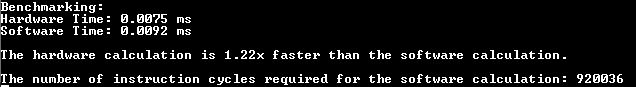
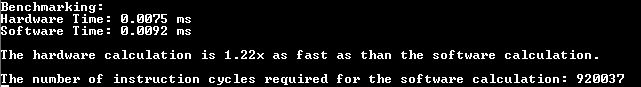
Made benchmarking print more clear, reflected change in images

diff --git a/dspic33ck-curiosity-crc-advanced.X/print.c b/dspic33ck-curiosity-crc-advanced.X/print.c
@@ -335,7 +335,7 @@ void printBenchmarkingResults(uint16_t hardwareCRCTimerCount, uint16_t softwareC
     (void) printf("\r\nBenchmarking:\r\n");
     (void) printf("Hardware Time: %.4f ms\n", hardwareCRCCalculationTime);
     (void) printf("Software Time: %.4f ms\n", softwareCRCCalculationTime);
-    (void) printf("\r\nThe hardware calculation is %.2fx faster than the software calculation.\r\n", hardwareToSoftwareTimeRatio);
+    (void) printf("\r\nThe hardware calculation is %.2fx as fast as than the software calculation.\r\n", hardwareToSoftwareTimeRatio);
     (void) printf("\r\nThe number of instruction cycles required for the software calculation: %.0lf\r\n", 
             (calculateInstructions(softwareCRCCalculationTime)));
 }
